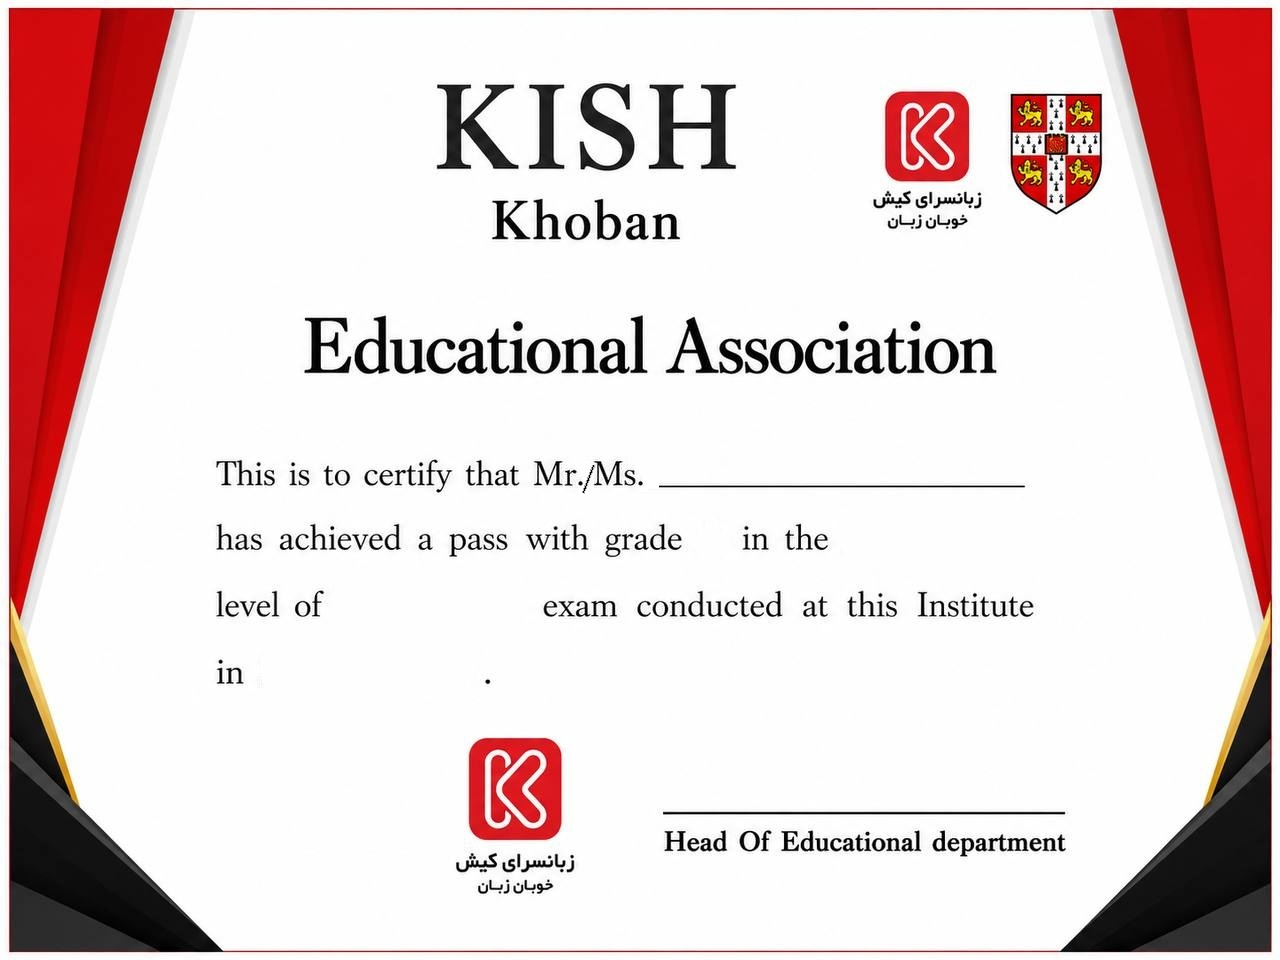
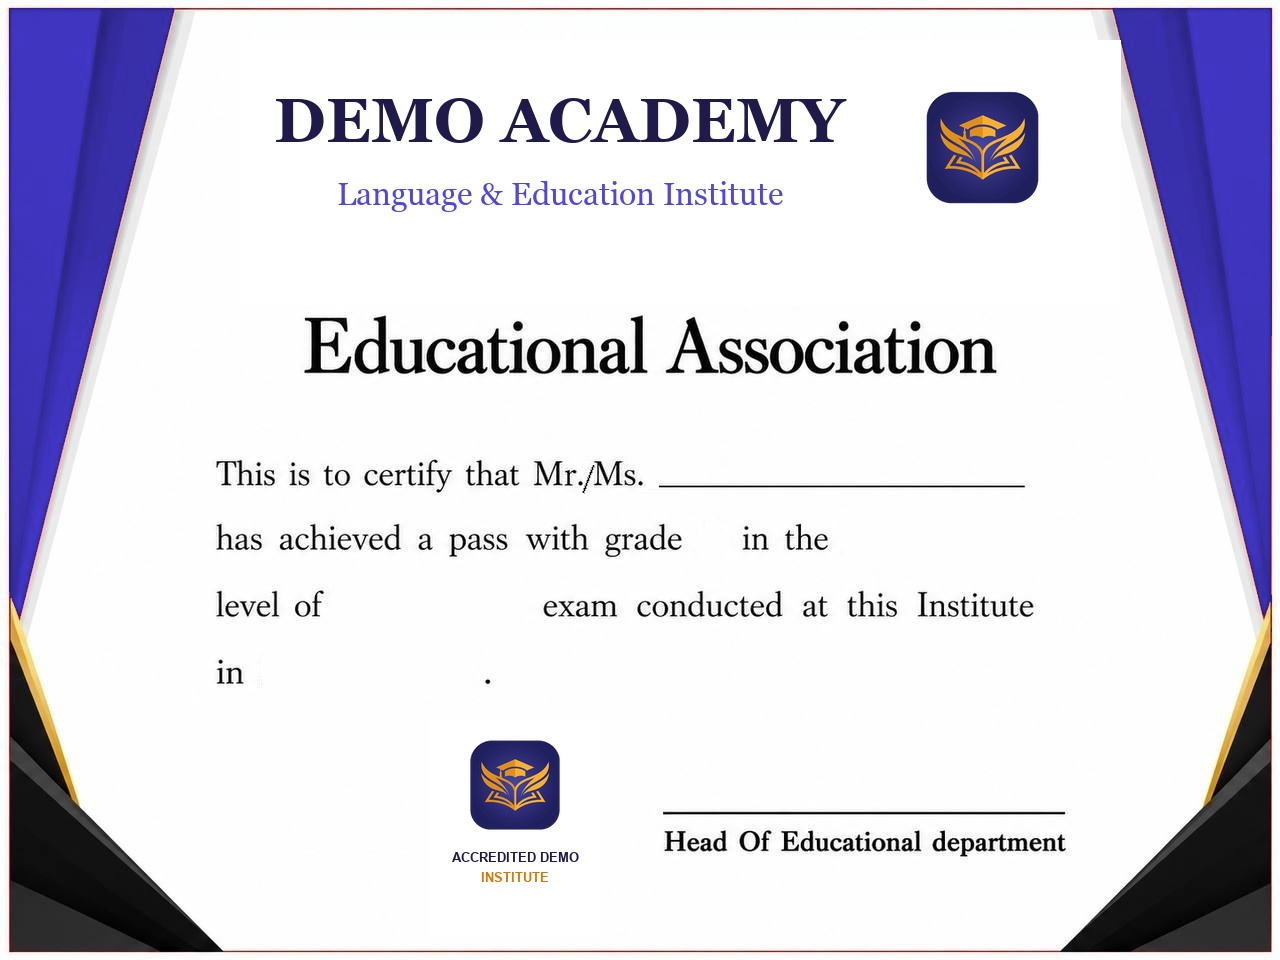
remove kish from demo

diff --git a/frontend/src/pages/Home.js b/frontend/src/pages/Home.js
@@ -2,12 +2,13 @@ import { useEffect, useRef, useState } from "react";
 import { Link } from "react-router-dom";
 import "./Landing.css";
 import { AnimatedButton } from "../components/AnimatedButton";
+import { siteConfig } from "../config/siteConfig";
 
 const TYPING_TEXTS = ["انگلیسی", "English", "برای IELTS", "برای TOEFL"];
 const STATS = [
   { value: 1967, suffix: "+", label: "دانشآموز موفق" },
   { value: 99, suffix: "%", label: "رضایت دانشآموزان" },
-  { value: 18, suffix: "+", label: "سال تجربه" },
+  { value: siteConfig.experienceYearsNumber || 10, suffix: "+", label: "سال تجربه" },
 ];
 
 const FEATURES = [
@@ -138,10 +139,9 @@ export default function Landing() {
             </h1>
 
             <p className="hero-desc reveal" ref={r}>
-              بیش از ۱۸ سال تجربه در آموزش زبان انگلیسی با کلاسهای خصوصی و
-              نیمهخصوصی.
+              آموزش تخصصی زبان انگلیسی با کلاسهای خصوصی و نیمهخصوصی.
               <br />
-              از مقدماتی تا پیشرفته، با تضمین نتیجه.
+              از مقدماتی تا پیشرفته، با جدیدترین متدهای آموزشی و استانداردهای روز.
             </p>
 
             <div className="hero-cta reveal" ref={r}>

diff --git a/frontend/src/pages/Login.js b/frontend/src/pages/Login.js
@@ -62,7 +62,17 @@ export default function Login() {
           <div className="login-brand">
 
             <div className="brand-icon">
-              🎯
+              <img
+                src={siteConfig.logoPath || "/logo.png"}
+                alt={siteConfig.instituteName}
+                style={{
+                  width: "68px",
+                  height: "68px",
+                  objectFit: "contain",
+                  borderRadius: "18px",
+                  boxShadow: "0 8px 24px rgba(79, 70, 229, 0.25)",
+                }}
+              />
             </div>
 
             <div className="brand-content">

diff --git a/frontend/src/components/DashboardLayout.js b/frontend/src/components/DashboardLayout.js
@@ -175,7 +175,7 @@ function DashboardLayout({ role, title, children, menuType }) {
       <aside className={`dashboard-sidebar ${sidebarOpen ? "open" : ""}`}>
         <div className="dashboard-brand">
           <div className="brand-flex">
-            <img src="/logo.png" className="brand-logo" alt={siteConfig.instituteName} />
+            <img src={siteConfig.logoPath || "/logo.png"} className="brand-logo" alt={siteConfig.instituteName} />
             <div className="brand-text">
               <strong>{siteConfig.instituteName}</strong>
               <small>{role}</small>

diff --git a/frontend/src/pages/About.js b/frontend/src/pages/About.js
@@ -25,7 +25,7 @@ function About() {
               <div className="story-img-wrap">
                 <img className="story-img-placeholder" src={siteConfig.logoPath || "/logo.png"} alt={siteConfig.instituteName} />
                 <div className="story-badge">
-                  <span className="badge-num">۱۸+</span>
+                  <span className="badge-num">{siteConfig.experienceYears}</span>
                   <span className="badge-lbl">سال تجربه</span>
                 </div>
               </div>

diff --git a/frontend/src/pages/StudentPanel.js b/frontend/src/pages/StudentPanel.js
@@ -210,7 +210,7 @@ function StudentPanel() {
       } else {
         // Check if student has started this exam
         const userId = currentUser?.id || "guest";
-        const startTimeStr = localStorage.getItem(`kish_exam_start_time_${exam.id}_${userId}`);
+        const startTimeStr = localStorage.getItem(`demo_exam_start_time_${exam.id}_${userId}`);
         if (startTimeStr) {
           const durMinutes = Number(exam.duration_minutes) || 45;
           const durSeconds = durMinutes * 60;

diff --git a/frontend/src/pages/StudentExam.js b/frontend/src/pages/StudentExam.js
@@ -25,8 +25,8 @@ function StudentExam() {
   const currentUser = storage.getUser();
   const userId = currentUser?.id || "guest";
 
-  const storageKey = `kish_exam_start_time_${examId}_${userId}`;
-  const draftKey = `kish_exam_draft_answers_${examId}_${userId}`;
+  const storageKey = `demo_exam_start_time_${examId}_${userId}`;
+  const draftKey = `demo_exam_draft_answers_${examId}_${userId}`;
 
   const [answers, setAnswers] = useState({});
   const [exam, setExam] = useState(null);

diff --git a/frontend/src/config/siteConfig.js b/frontend/src/config/siteConfig.js
@@ -23,6 +23,8 @@ export const siteConfig = {
     "مرکز آموزش زبان انگلیسی — نسخه نمایشی",
   shortName: env.REACT_APP_INSTITUTE_SHORT_NAME || "نمونه",
   logoPath: env.REACT_APP_LOGO_PATH || "/logo.png",
+  experienceYears: env.REACT_APP_EXPERIENCE_YEARS || "۱۰+",
+  experienceYearsNumber: Number(env.REACT_APP_EXPERIENCE_YEARS_NUMBER) || 10,
 
   /* ------------------------------------------------ تماس و آدرس */
   phones: [

diff --git a/frontend/src/pages/AdminTeacherDetails.js b/frontend/src/pages/AdminTeacherDetails.js
@@ -785,9 +785,7 @@ function AdminTeacherDetails() {
 
             <header class="header">
               <div class="brand">
-                <div class="brand-logo">
-                  K
-                </div>
+                <img class="brand-logo" src="/logo.png" alt="لوگو" />
 
                 <div>
                   <h1>

diff --git a/frontend/src/pages/AdminStudentDetails.js b/frontend/src/pages/AdminStudentDetails.js
@@ -905,7 +905,7 @@ function AdminStudentDetails() {
 
             <header class="header">
               <div class="brand">
-                <div class="brand-logo">K</div>
+                <img class="brand-logo" src="/logo.png" alt="لوگو" />
 
                 <div>
                   <h1>پرونده دانشآموز</h1>

diff --git a/frontend/src/pages/AdminSecretaryForm.js b/frontend/src/pages/AdminSecretaryForm.js
@@ -315,7 +315,7 @@ function AdminSecretaryForm() {
                     name="email"
                     value={formData.email}
                     onChange={handleChange}
-                    placeholder="secretary@kish.edu"
+                    placeholder="secretary@demo.example"
                   />
                 </div>
 

diff --git a/frontend/src/pages/StudentExams.js b/frontend/src/pages/StudentExams.js
@@ -375,7 +375,7 @@ function StudentExams() {
 
             const startTimeStr =
               localStorage.getItem(
-                `kish_exam_start_time_${exam.id}_${userId}`,
+                `demo_exam_start_time_${exam.id}_${userId}`,
               );
 
             if (startTimeStr) {

diff --git a/frontend/src/pages/Attendance.js b/frontend/src/pages/Attendance.js
@@ -30,7 +30,7 @@ function getEntityId(value) {
 
 function getStudentIdFromSession() {
   try {
-    const storedUser = localStorage.getItem("kish_auth_user");
+    const storedUser = localStorage.getItem("demo_auth_user");
 
     if (!storedUser) {
       return null;
